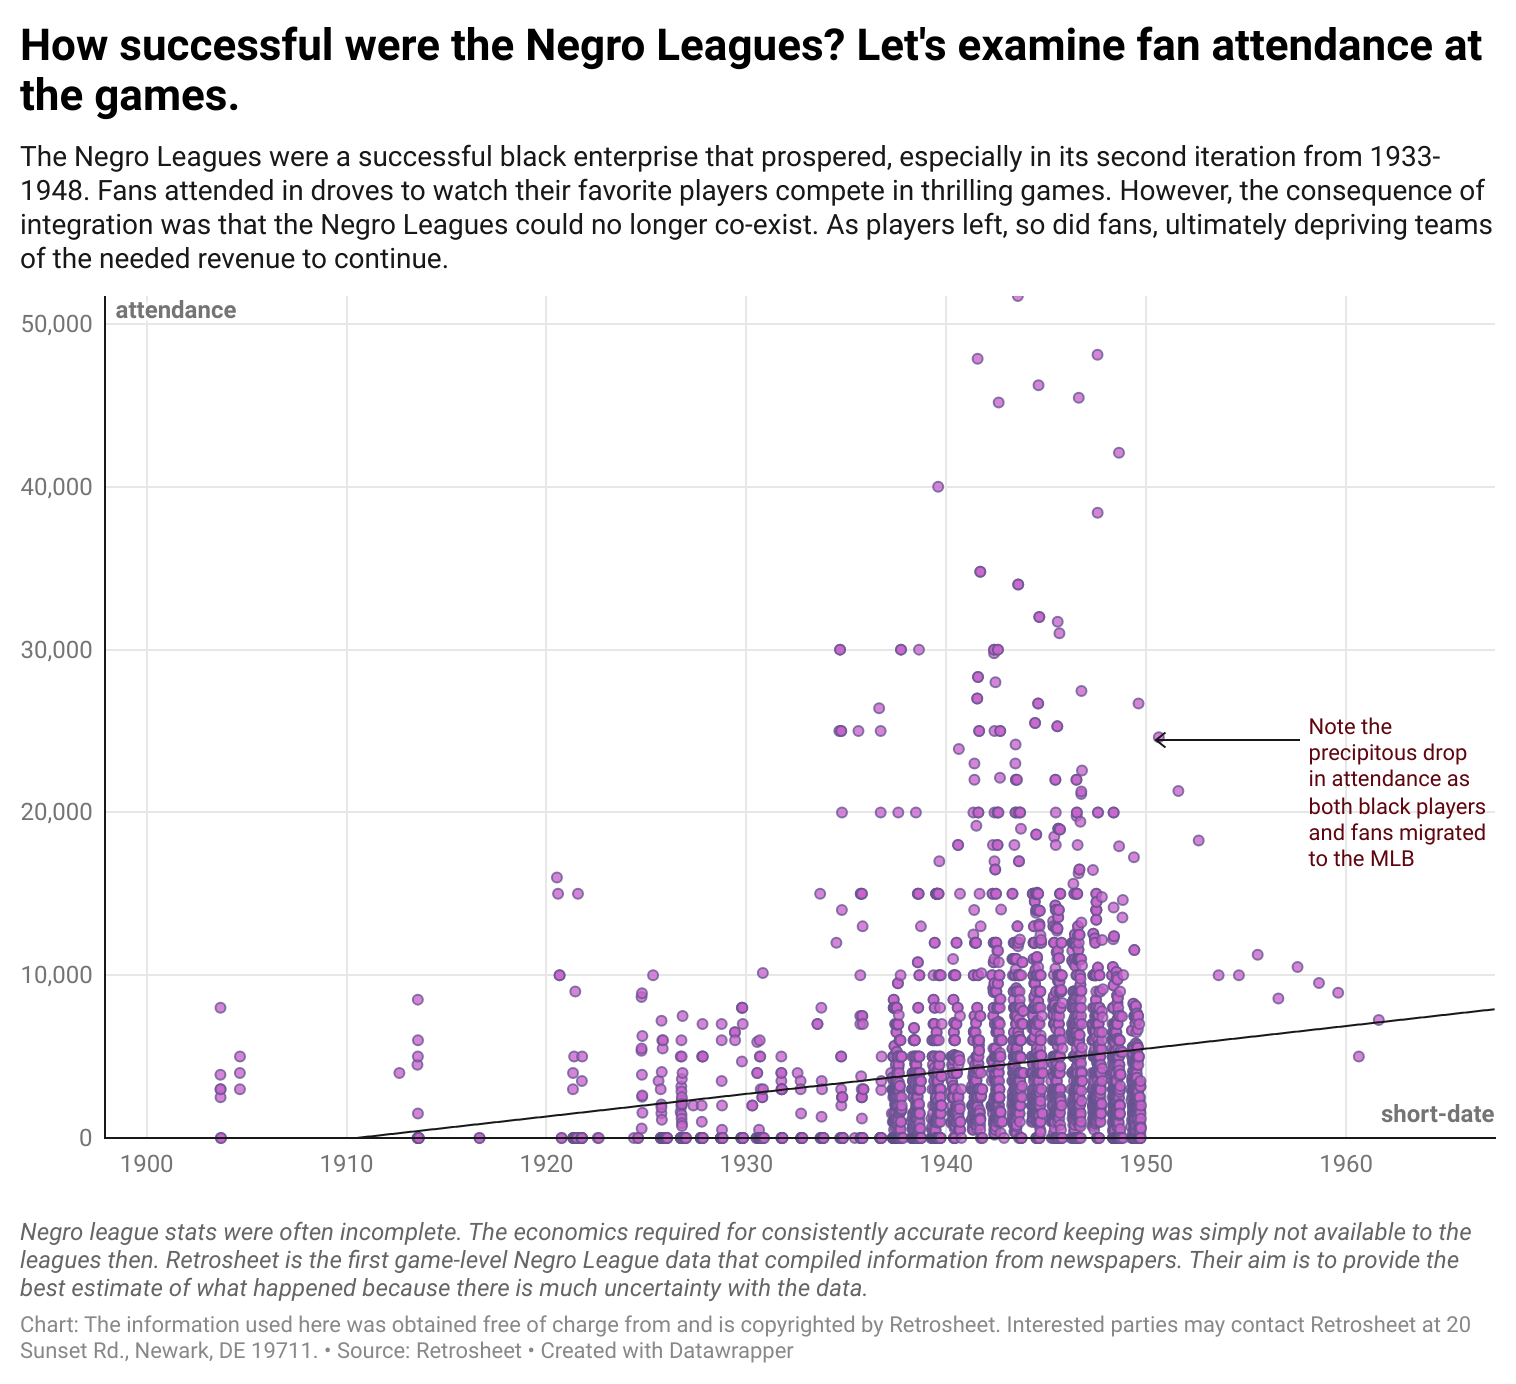
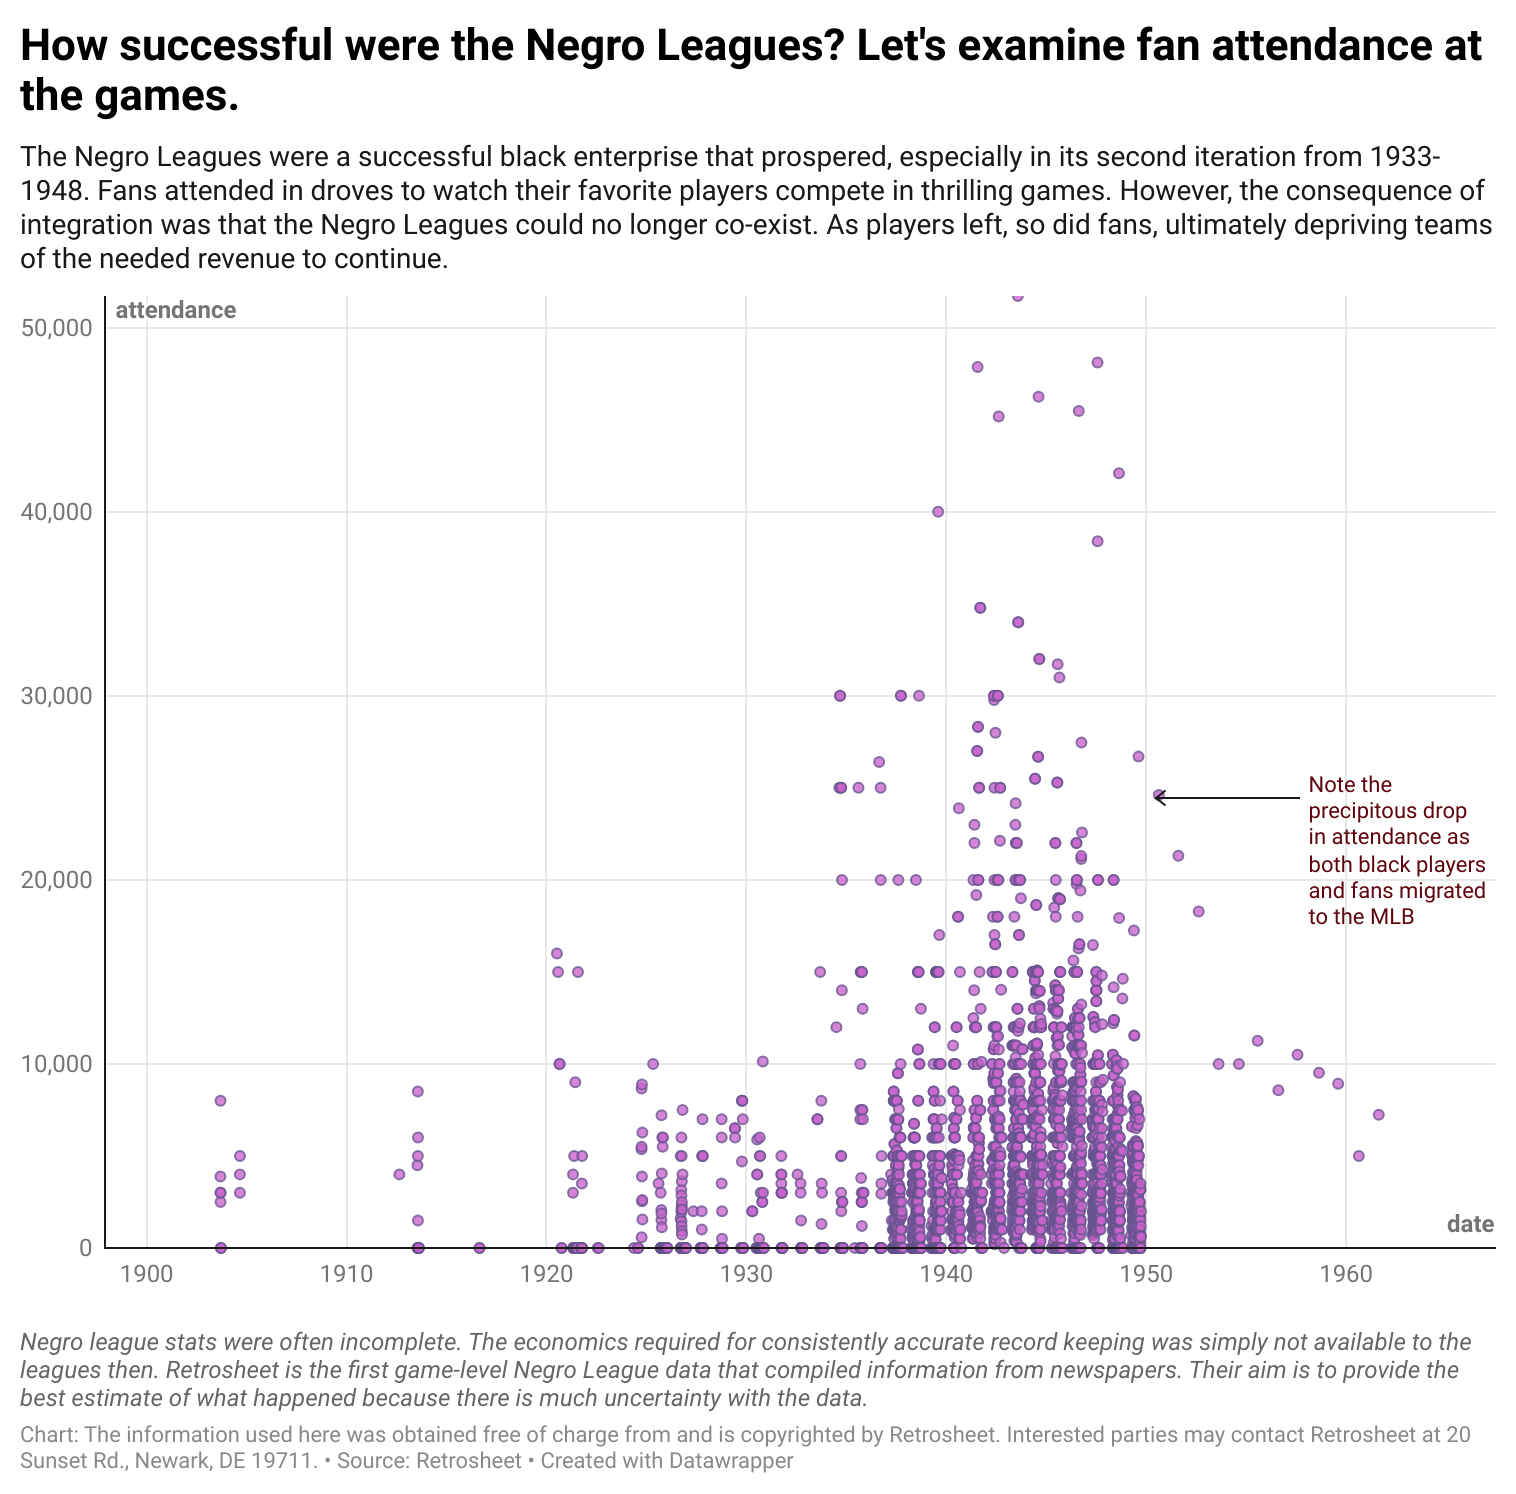
updated chart

diff --git a/viz/index-attendance.html b/viz/index-attendance.html
@@ -4,16 +4,63 @@
     <meta charset="UTF-8">
     <meta name="viewport" content="width=device-width, initial-scale=1.0">
     <title>Fan Attendance</title>
+    <link rel="stylesheet" href="../styles/style-about.css">
+    <link rel="stylesheet" href="../styles/style.css">
     <style>
         iframe{
             margin-left: 20%;
             margin-top: 10px;
                 
         }
+
+        /* Mobile - 360px */
+@media only screen and (min-width: 0rem) {
+    .cs-button-solid {
+      font-size: 1rem;
+      /* 46px - 56px */
+      line-height: clamp(2.875rem, 5.5vw, 3.0rem);
+      text-decoration: none;
+      font-weight: 700;
+      text-align: center;
+      margin: 50px;
+      color: #1a1a1a;
+      min-width: 20%;
+      padding: 5px;
+      background-color: rgb(203, 33, 225);
+      display: inline-block;
+      position: relative;
+      z-index: 1;
+      /* prevents padding from adding to the width */
+      box-sizing: border-box;
+      transition: color 0.3s;
+  }
+
+  .cs-button-solid:before {
+    content: "";
+    position: absolute;
+    height: 100%;
+    width: 0%;
+    background: #000;
+    opacity: 1;
+    top: 0;
+    left: 0;
+    z-index: -1;
+    transition: width 0.3s;
+}
+
+  .cs-button-solid:hover {
+    color: #fff;
+  }
+  .cs-button-solid:hover:before {
+    width: 100%;
+  }
+  }
     </style>
 </head>
 <body>
-    <iframe title="How successful were the Negro Leagues? Let's examine fan attendance at the games." aria-label="Scatter Plot" id="datawrapper-chart-oBQ4R" src="https://datawrapper.dwcdn.net/oBQ4R/4/" scrolling="no" frameborder="0" style="width: 0; min-width: 60% !important; border: none;" height="677" data-external="1"></iframe><script type="text/javascript">!function(){"use strict";window.addEventListener("message",(function(a){if(void 0!==a.data["datawrapper-height"]){var e=document.querySelectorAll("iframe");for(var t in a.data["datawrapper-height"])for(var r,i=0;r=e[i];i++)if(r.contentWindow===a.source){var d=a.data["datawrapper-height"][t]+"px";r.style.height=d}}}))}();
+    <a class="cs-button-solid" aria-label="learn more about our programs" href="../index-about.html">Back</a>
+    <iframe title="How successful were the Negro Leagues? Let's examine fan attendance at the games."aria-label="Scatter Plot" id="datawrapper-chart-oBQ4R" src="https://datawrapper.dwcdn.net/oBQ4R/5/" scrolling="no" frameborder="0" style="width: 0; min-width: 60% !important; border: none;" height="733" data-external="1"></iframe>
+    <script type="text/javascript">!function () { "use strict"; window.addEventListener("message", (function (a) { if (void 0 !== a.data["datawrapper-height"]) { var e = document.querySelectorAll("iframe"); for (var t in a.data["datawrapper-height"]) for (var r, i = 0; r = e[i]; i++)if (r.contentWindow === a.source) { var d = a.data["datawrapper-height"][t] + "px"; r.style.height = d } } })) }();
     </script>
 </body>
 </html>

diff --git a/history2.html b/history2.html
@@ -243,7 +243,7 @@
         </div>
         <div class="cs-content">
             <div class="cs-flex">
-                <span class="cs-topper">About us</span>
+                <span class="cs-topper">Summary</span>
                 <h2 class="cs-title">What was the long-term impact of the end of the Negro Leagues?</h2>
             </div>
             <p class="cs-text-large">
